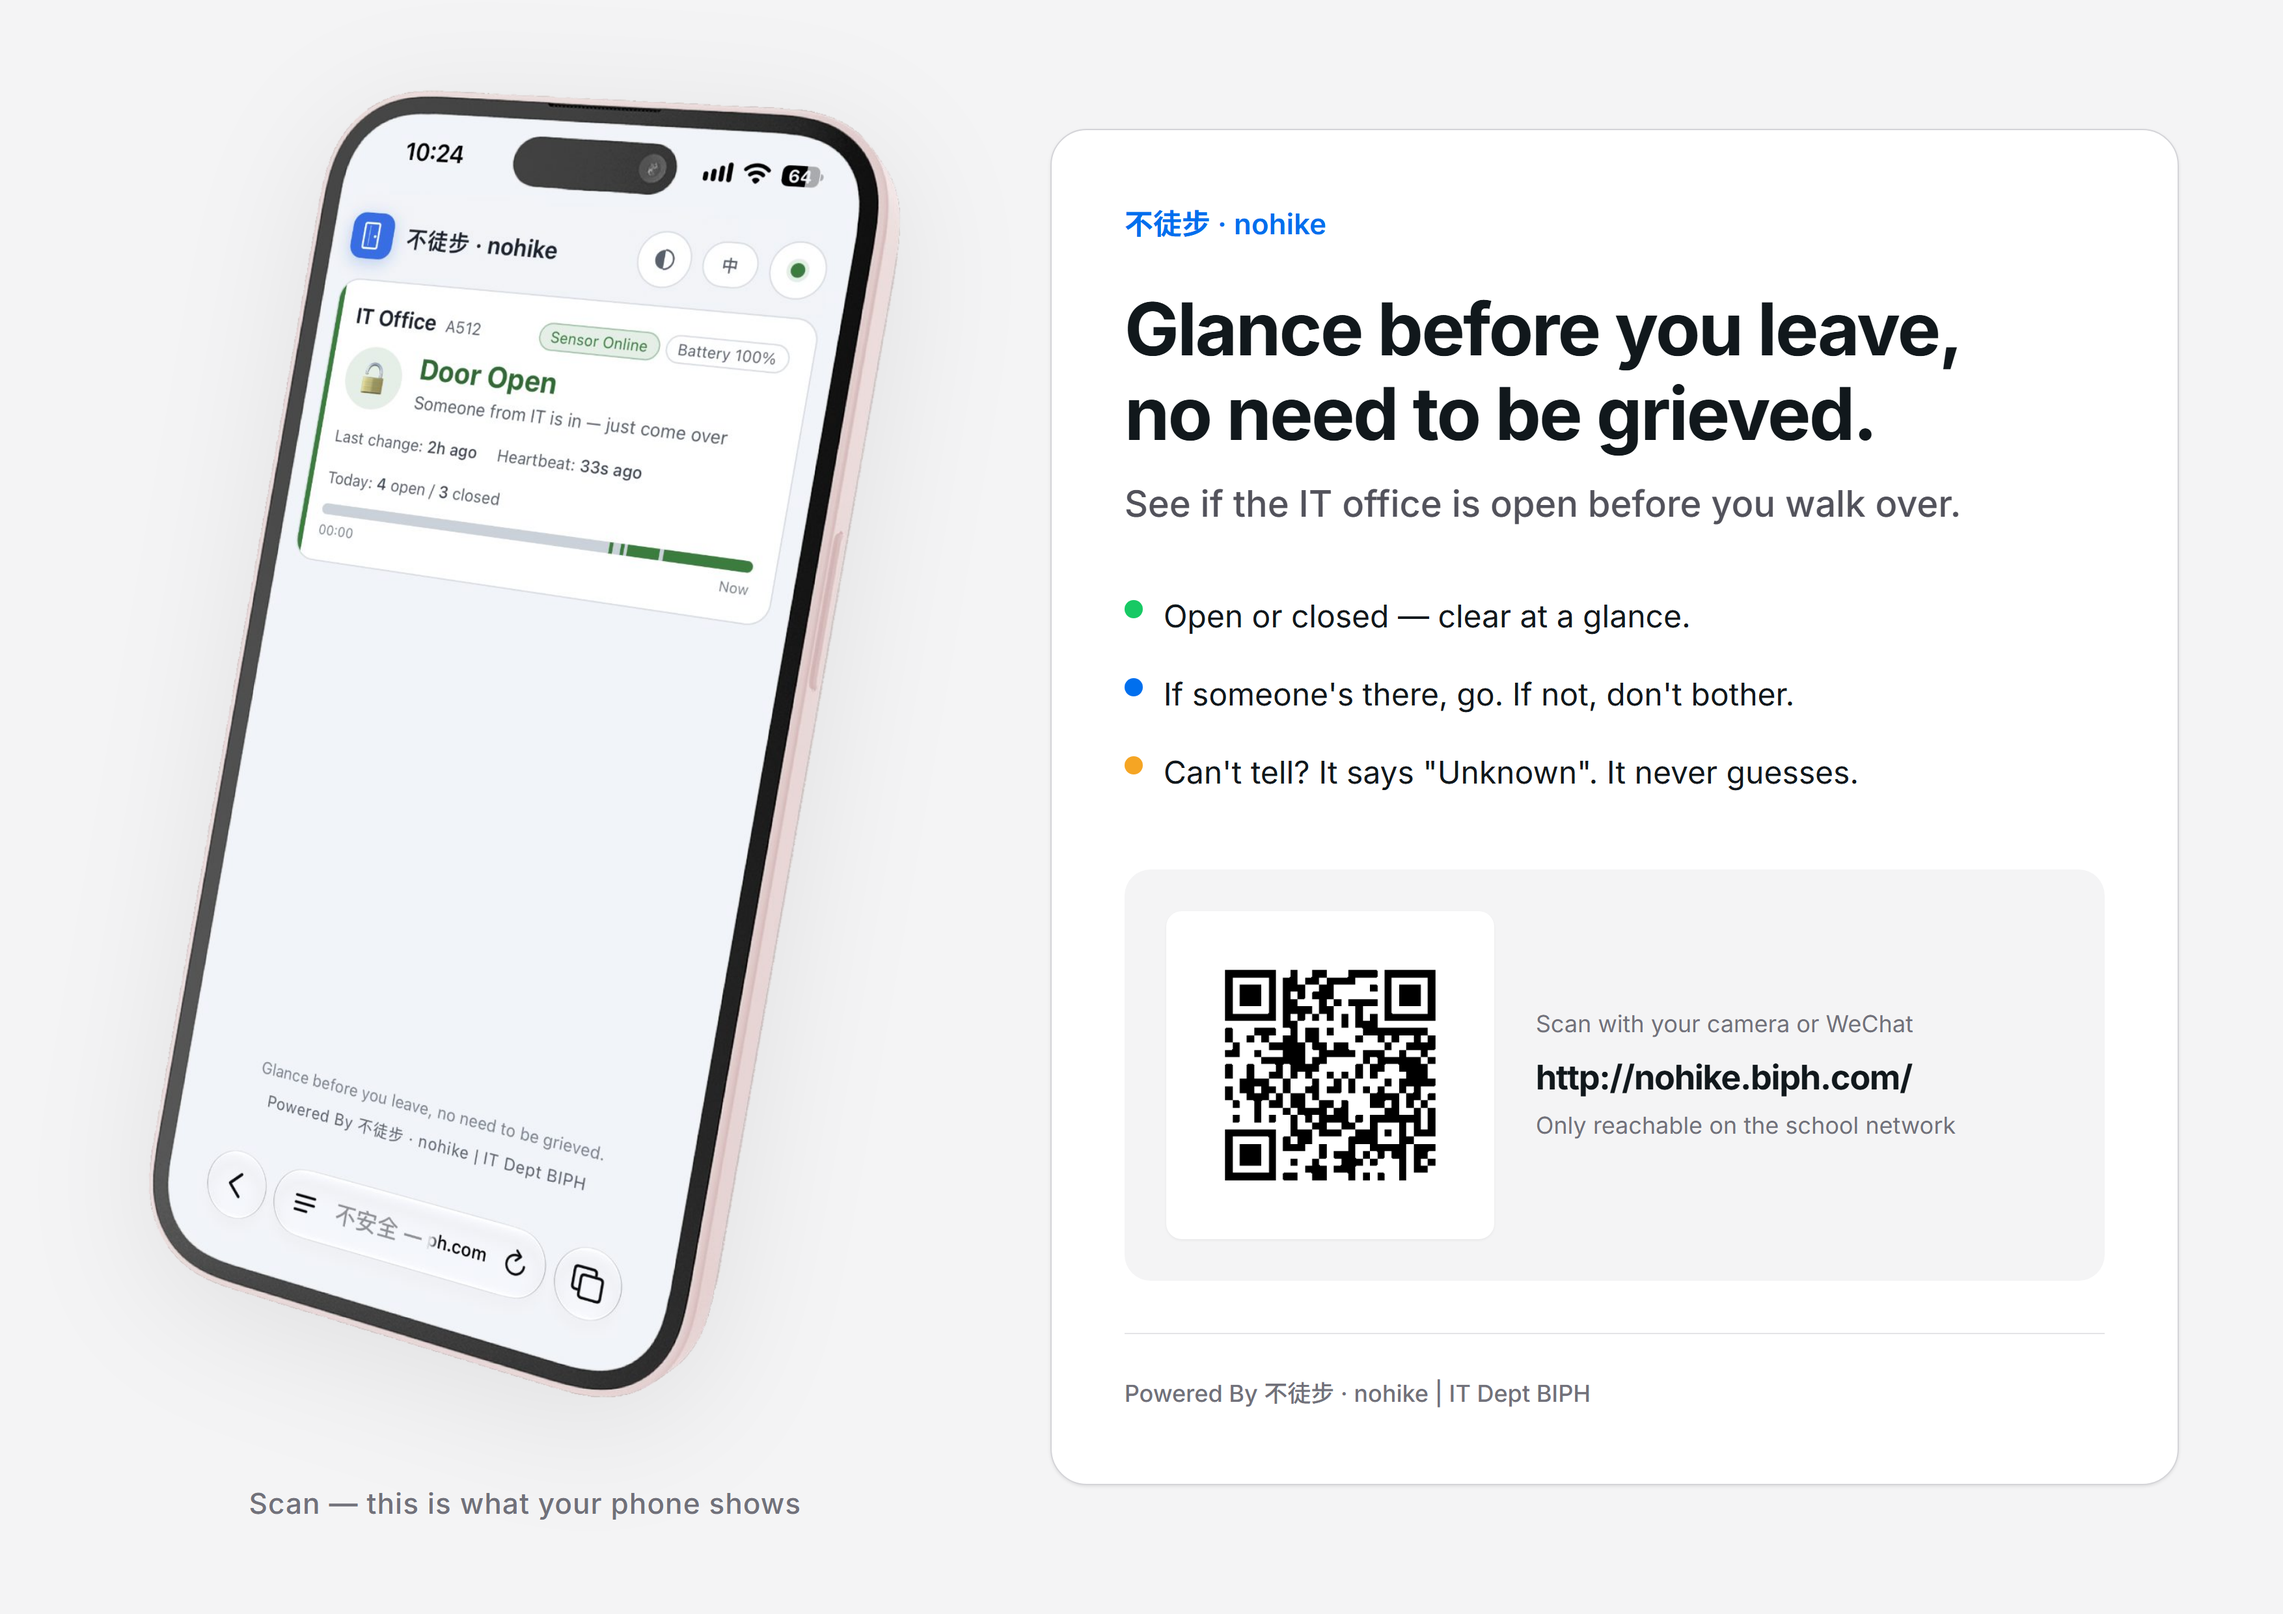
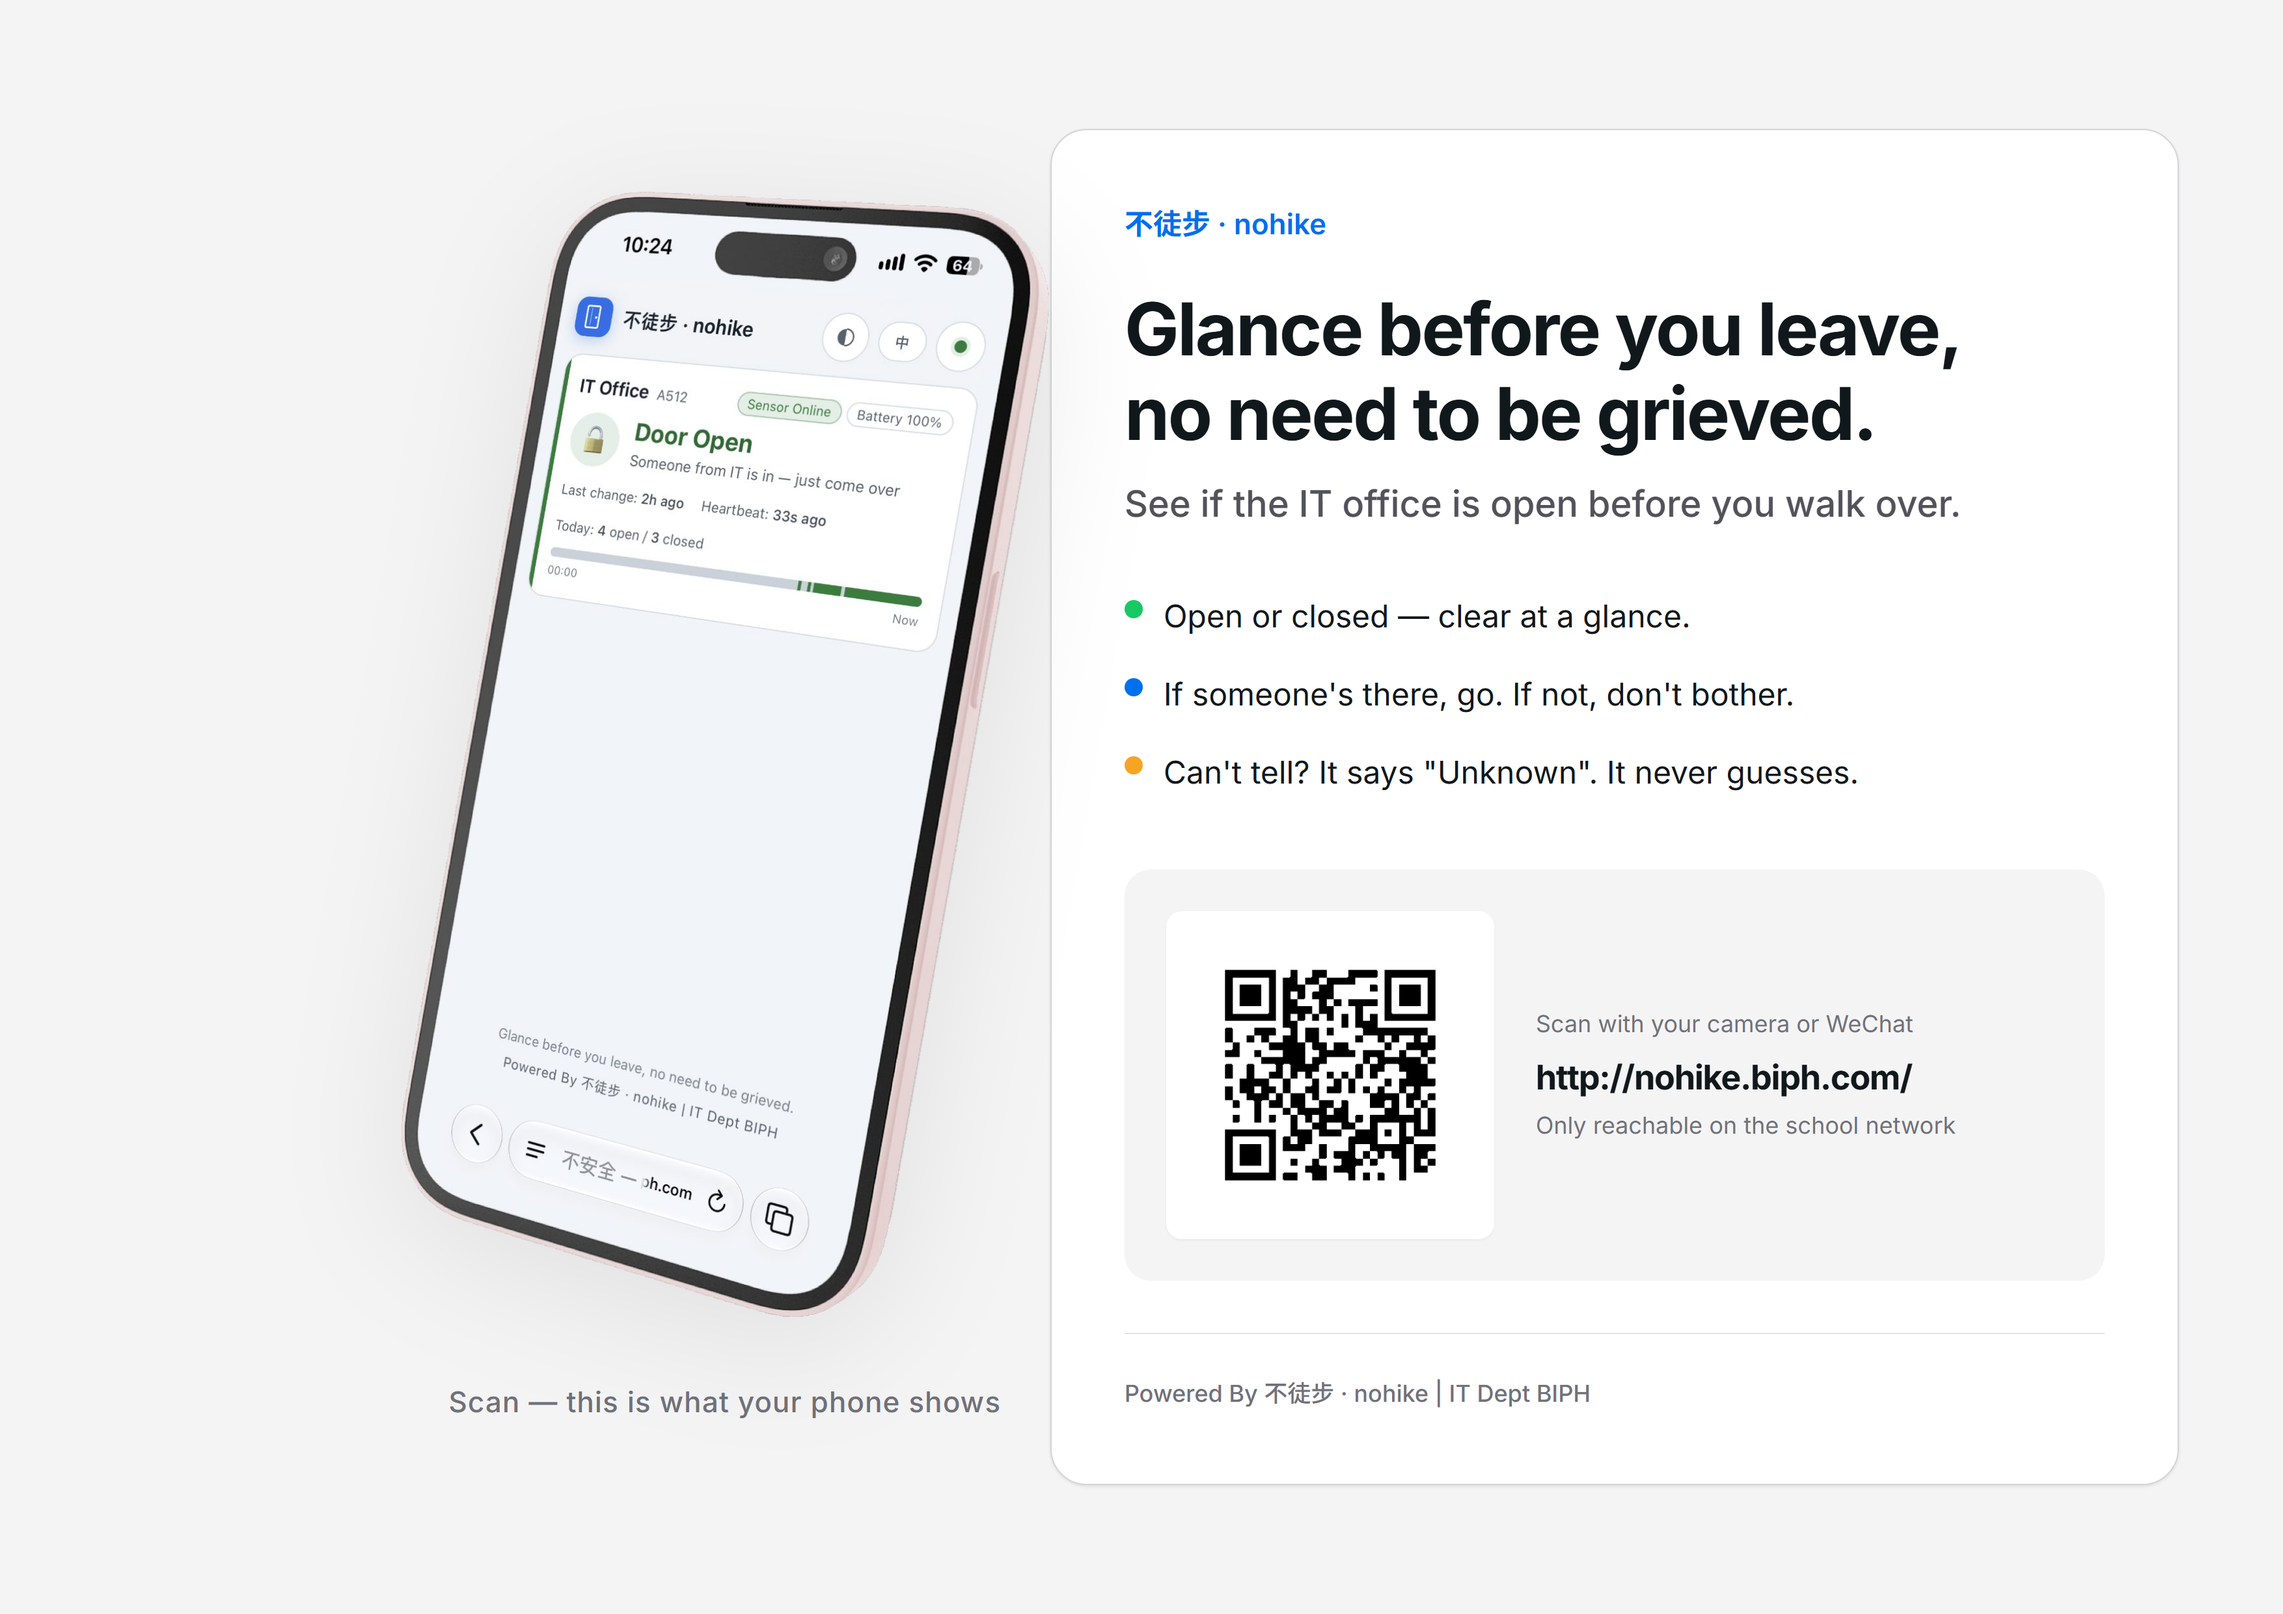
浅色海报:手机缩小并与右侧白卡左缘齐平
- 手机实拍宽度 620/580 → 500(等比缩放,倾角不变,仍是原图角度)
- 左区改为右对齐,手机右边缘落在 x=806.8,与白卡左边缘同一条垂直线
- 图注移进手机容器内,保持居中在手机正下方
- 重新渲染 3508×2480 PNG,两张成品图二维码均反解出 http://nohike.biph.com/
- Superdesign 草稿回传为 v4(中英各一张)

Changed region(s): [[0.0621, 0.031, 0.4661, 0.8694], [0.3107, 0.9315, 0.3418, 0.9625]]

diff --git a/docs/posters/poster-d-light.html b/docs/posters/poster-d-light.html
@@ -1,1 +1,1 @@
-<!DOCTYPE html><html><head><script src="assets/tailwind.js"></script><style>@import url('https://fonts.googleapis.com/css2?family=Inter:wght@400;500;600;700&family=Noto+Sans+SC:wght@400;500;700&display=swap'); body { font-family: 'Inter', 'Noto Sans SC', sans-serif; -webkit-font-smoothing: antialiased; }</style></head><body><div class="w-full h-screen overflow-hidden relative bg-[#f4f4f5] flex items-center select-none" data-sd-id="1"><div class="w-[46%] h-full flex flex-col items-center justify-center relative" data-sd-id="2"><div class="relative flex flex-col items-center transform rotate-0 drop-shadow-[0_35px_60px_rgba(0,0,0,0.12)]" data-sd-id="3"><img src="assets/phone-angle-light-zh.png" alt="Phone Interface" class="w-[620px] object-contain" data-sd-id="4"></div><div class="mt-12 text-[#71717a] text-[22px] font-medium tracking-wide" data-sd-id="5">扫一下，手机上就是这个页面</div></div><div class="w-[54%] h-full flex items-center justify-start pr-[100px]" data-sd-id="6"><div class="bg-white w-[840px] rounded-[28px] border border-[#d4d4d8] shadow-[0_1px_2px_rgba(0,0,0,0.04),0_1px_3px_rgba(0,0,0,0.06)] p-[56px] flex flex-col" data-sd-id="7"><div class="text-[#006fee] font-semibold text-[22px] mb-8" data-sd-id="8">不徒步 · nohike</div><h1 class="text-[72px] leading-[1.1] font-bold text-[#11181c] mb-6" data-sd-id="9">一眼知门况，<br>免跑空一趟。</h1><p class="text-[24px] text-[#52525b] mb-12" data-sd-id="10">IT 办公室的门开着还是关着，手机上就能看。</p><div class="space-y-6 mb-16" data-sd-id="11"><div class="flex items-center gap-4" data-sd-id="12"><div class="w-[14px] h-[14px] rounded-full bg-[#17c964]" data-sd-id="13"></div><span class="text-[20px] text-[#11181c] font-medium" data-sd-id="14">门开着还是门关着，一眼就看清楚</span></div><div class="flex items-center gap-4" data-sd-id="15"><div class="w-[14px] h-[14px] rounded-full bg-[#006fee]" data-sd-id="16"></div><span class="text-[20px] text-[#11181c] font-medium" data-sd-id="17">有人在就直接去，不在就不用白跑一趟</span></div><div class="flex items-center gap-4" data-sd-id="18"><div class="w-[14px] h-[14px] rounded-full bg-[#f5a524]" data-sd-id="19"></div><span class="text-[20px] text-[#11181c] font-medium" data-sd-id="20">实在看不出来，它会老实说「不知道」，不糊弄你</span></div></div><div class="bg-[#f4f4f5] rounded-[20px] p-6 flex items-center gap-8 mb-10" data-sd-id="21"><div class="bg-white p-4 rounded-xl shadow-sm flex-shrink-0" data-sd-id="22"><img src="assets/qr-nohike.png" alt="QR Code" class="w-[220px] h-[220px]" data-sd-id="23"></div><div class="flex flex-col justify-center" data-sd-id="24"><div class="text-[#71717a] text-[18px] mb-2" data-sd-id="25">用手机相机或微信扫一扫</div><div class="text-[#11181c] text-[28px] font-bold tracking-tight mb-1" data-sd-id="26">http://nohike.biph.com/</div><div class="text-[#71717a] text-[16px]" data-sd-id="27">需在学校网络内访问</div></div></div><div class="pt-8 border-t border-[#e4e4e7] text-[#71717a] text-[16px] flex justify-between items-center" data-sd-id="28"><span data-sd-id="29">Powered By 不徒步 · nohike | IT Dept BIPH</span></div></div></div></div></body></html>
+<!DOCTYPE html><html><head><script src="assets/tailwind.js"></script><style>@import url('https://fonts.googleapis.com/css2?family=Inter:wght@400;500;600;700&family=Noto+Sans+SC:wght@400;500;700&display=swap'); body { font-family: 'Inter', 'Noto Sans SC', sans-serif; -webkit-font-smoothing: antialiased; }</style></head><body><div class="w-full h-screen overflow-hidden relative bg-[#f4f4f5] flex items-center select-none" data-sd-id="1"><div class="w-[46%] h-full flex flex-col items-end justify-center relative" data-sd-id="2"><div class="relative flex flex-col items-center" data-sd-id="3"><img src="assets/phone-angle-light-zh.png" alt="Phone Interface" class="w-[500px] object-contain drop-shadow-[0_35px_60px_rgba(0,0,0,0.12)]" data-sd-id="4"><div class="mt-12 text-[#71717a] text-[22px] font-medium tracking-wide" data-sd-id="5">扫一下，手机上就是这个页面</div></div></div><div class="w-[54%] h-full flex items-center justify-start pr-[100px]" data-sd-id="6"><div class="bg-white w-[840px] rounded-[28px] border border-[#d4d4d8] shadow-[0_1px_2px_rgba(0,0,0,0.04),0_1px_3px_rgba(0,0,0,0.06)] p-[56px] flex flex-col" data-sd-id="7"><div class="text-[#006fee] font-semibold text-[22px] mb-8" data-sd-id="8">不徒步 · nohike</div><h1 class="text-[72px] leading-[1.1] font-bold text-[#11181c] mb-6" data-sd-id="9">一眼知门况，<br>免跑空一趟。</h1><p class="text-[24px] text-[#52525b] mb-12" data-sd-id="10">IT 办公室的门开着还是关着，手机上就能看。</p><div class="space-y-6 mb-16" data-sd-id="11"><div class="flex items-center gap-4" data-sd-id="12"><div class="w-[14px] h-[14px] rounded-full bg-[#17c964]" data-sd-id="13"></div><span class="text-[20px] text-[#11181c] font-medium" data-sd-id="14">门开着还是门关着，一眼就看清楚</span></div><div class="flex items-center gap-4" data-sd-id="15"><div class="w-[14px] h-[14px] rounded-full bg-[#006fee]" data-sd-id="16"></div><span class="text-[20px] text-[#11181c] font-medium" data-sd-id="17">有人在就直接去，不在就不用白跑一趟</span></div><div class="flex items-center gap-4" data-sd-id="18"><div class="w-[14px] h-[14px] rounded-full bg-[#f5a524]" data-sd-id="19"></div><span class="text-[20px] text-[#11181c] font-medium" data-sd-id="20">实在看不出来，它会老实说「不知道」，不糊弄你</span></div></div><div class="bg-[#f4f4f5] rounded-[20px] p-6 flex items-center gap-8 mb-10" data-sd-id="21"><div class="bg-white p-4 rounded-xl shadow-sm flex-shrink-0" data-sd-id="22"><img src="assets/qr-nohike.png" alt="QR Code" class="w-[220px] h-[220px]" data-sd-id="23"></div><div class="flex flex-col justify-center" data-sd-id="24"><div class="text-[#71717a] text-[18px] mb-2" data-sd-id="25">用手机相机或微信扫一扫</div><div class="text-[#11181c] text-[28px] font-bold tracking-tight mb-1" data-sd-id="26">http://nohike.biph.com/</div><div class="text-[#71717a] text-[16px]" data-sd-id="27">需在学校网络内访问</div></div></div><div class="pt-8 border-t border-[#e4e4e7] text-[#71717a] text-[16px] flex justify-between items-center" data-sd-id="28"><span data-sd-id="29">Powered By 不徒步 · nohike | IT Dept BIPH</span></div></div></div></div></body></html>

diff --git a/docs/posters/poster-d-light-en.html b/docs/posters/poster-d-light-en.html
@@ -29,10 +29,10 @@
   <div class="w-[1754px] h-[1240px] overflow-hidden relative flex" data-sd-id="1">
     
     <!-- LEFT ZONE: Phone Visual (46%) -->
-    <div class="w-[46%] h-full flex flex-col items-center justify-center p-20" data-sd-id="2">
+    <div class="w-[46%] h-full flex flex-col items-end justify-center py-20 pl-20" data-sd-id="2">
       <div class="relative flex flex-col items-center" data-sd-id="3">
-        <img src="assets/phone-angle-light-en.png" class="phone-shadow rotate-0 w-[580px] h-auto object-contain" alt="iPhone Dashboard Preview" data-sd-id="4">
-        <p class="mt-16 text-[#71717a] text-[22px] tracking-wide font-medium" data-sd-id="5">Scan — this is what your phone shows</p>
+        <img src="assets/phone-angle-light-en.png" class="phone-shadow rotate-0 w-[500px] h-auto object-contain" alt="iPhone Dashboard Preview" data-sd-id="4">
+        <p class="mt-12 text-[#71717a] text-[22px] tracking-wide font-medium" data-sd-id="5">Scan — this is what your phone shows</p>
       </div>
     </div>
 
